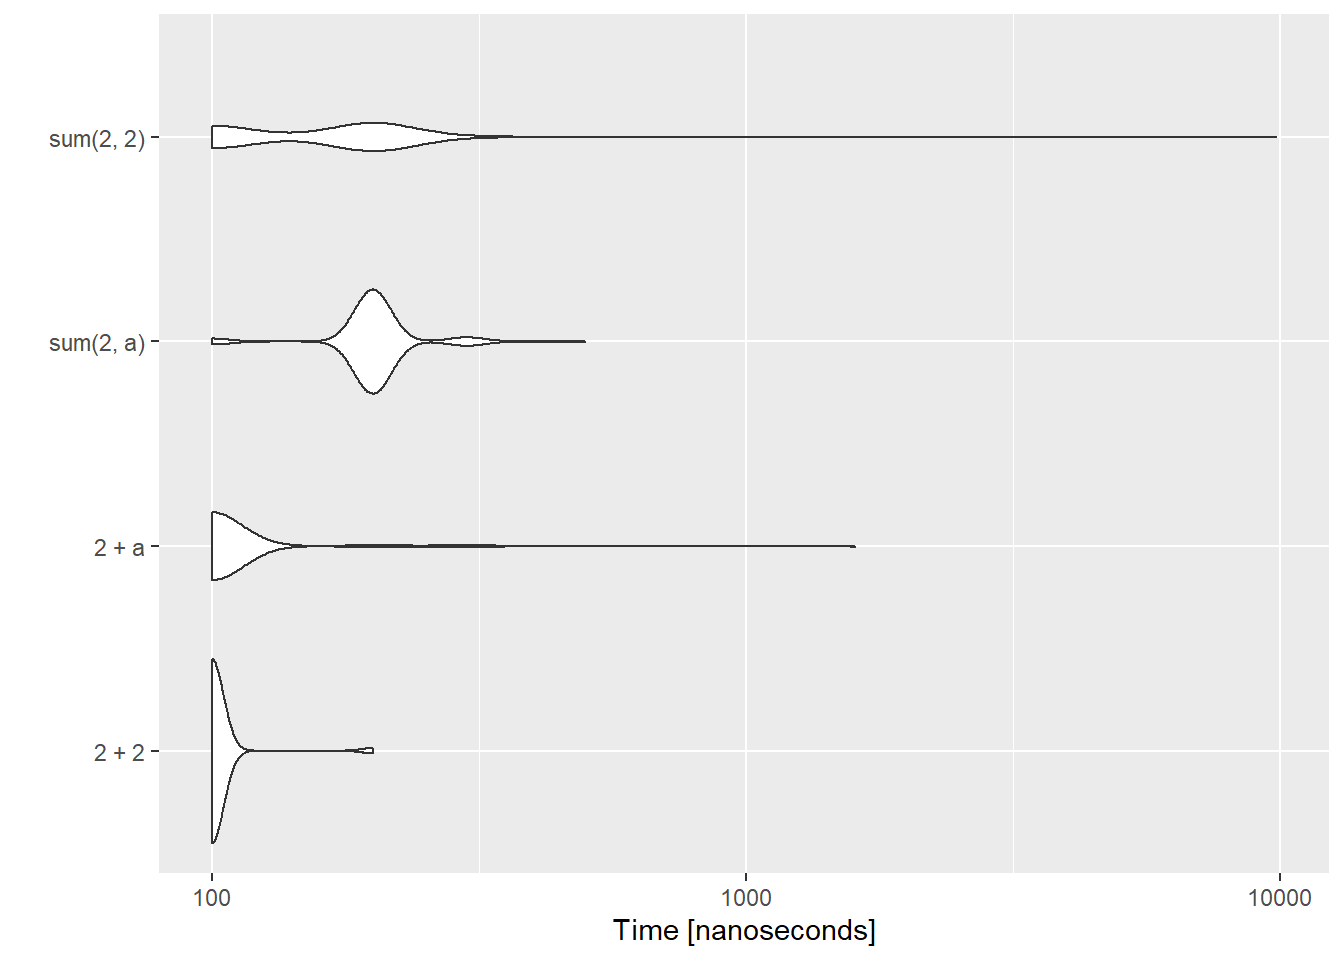
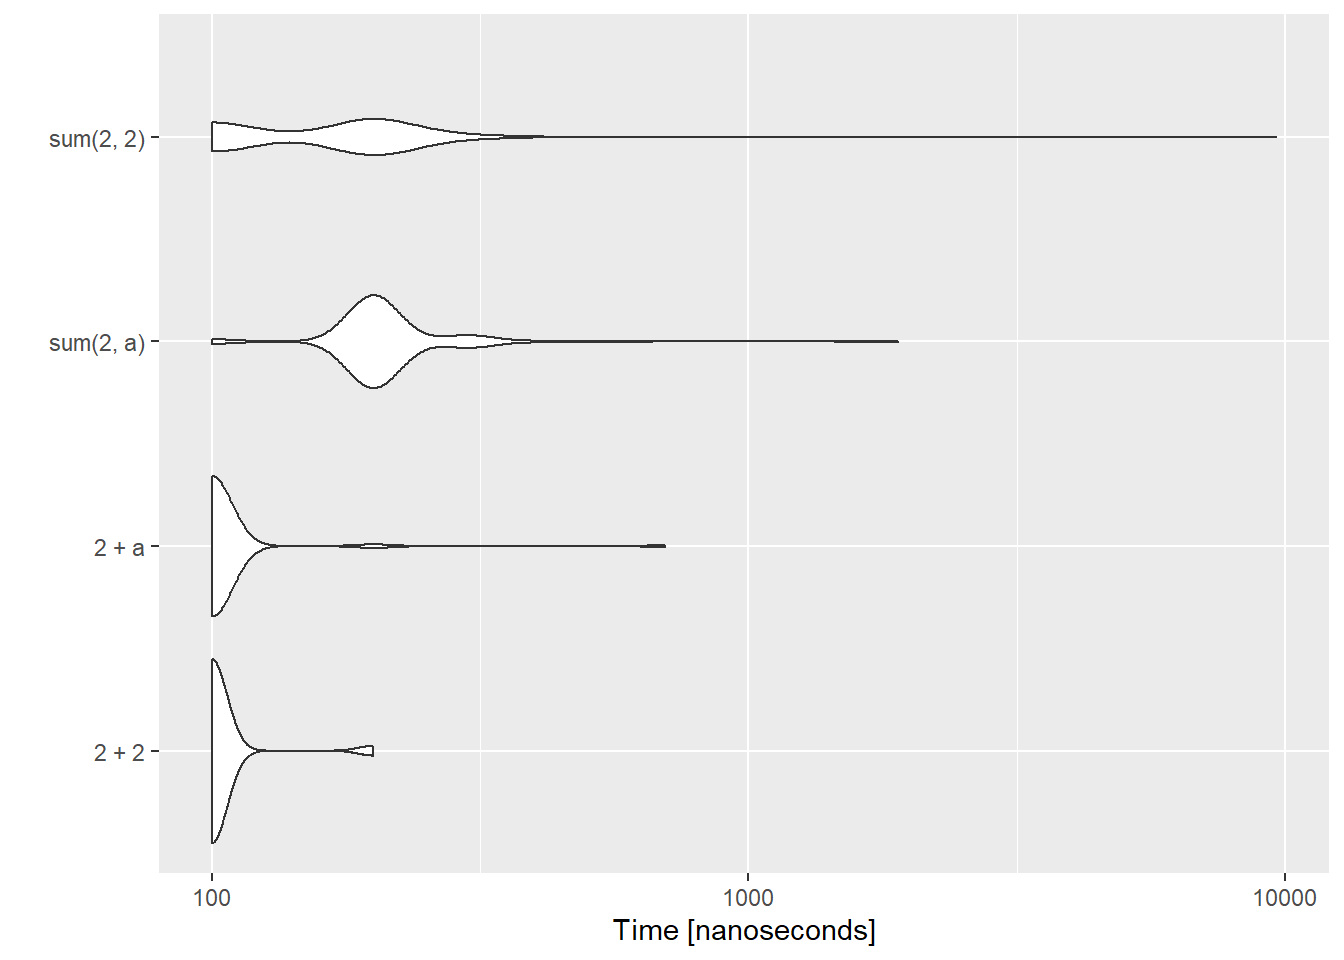
update

diff --git a/week7-more-git.html b/week7-more-git.html
@@ -586,9 +586,11 @@ Robust
 <li>How to use branches</li>
 <li>How to do a pull request to pull a branch into your master repository</li>
 <li>How to ‘go back in time’ and get rid of changes</li>
+<li>Working with issues in GitHub</li>
 <li>How to create a release in GitHub</li>
 <li>A workflow to minimize headaches</li>
 </ul>
+<p>I’ll be illustrating this with this repo: <a href="https://github.com/eeholmes/MyNewPackage" class="uri">https://github.com/eeholmes/MyNewPackage</a></p>
 <div id="merge-conflicts" class="section level2">
 <h2>Merge conflicts</h2>
 <p>Merge conflicts happen when there are changes to a file on your remote repository (GitHub or GitLab) but also changes to that same file on your local repository. Git doesn’t know how to resolve the conflicting changes and needs your help.</p>
@@ -661,6 +663,21 @@ Robust
 <p>You can do the same actions from GitHub.</p>
 </div>
 </div>
+<div id="issues" class="section level2">
+<h2>Issues</h2>
+<ul>
+<li>Use the Issues in GitHub to enter any issues (bugs, feature changes, notes).</li>
+<li>You can reference issues in your commits with #<num of the issue></li>
+<li>Add code to your issue so you can easily recreate the problem</li>
+</ul>
+</div>
+<div id="releases" class="section level2">
+<h2>Releases</h2>
+<ul>
+<li>The release or tag feature in GitHub will help you go back in time and document working states</li>
+<li>Use a NEWS file to keep a notebook of all your changes. I use a standard format with BUGS, DOCUMENTATION, ENHANCEMENTS. It’s really helpful for understanding what is happening with the code.</li>
+</ul>
+</div>
 <div id="getting-rid-of-changes-you-have-made" class="section level2">
 <h2>Getting rid of changes you have made</h2>
 <p>Say you made a change and you need to get rid of that. The temptation (for me) is to jump onto the Git command line and clobber my repository with <code>reset</code> and <code>revert</code> commands. Don’t do this. Here are some strategies that will make this let prone to leaving your code a mess.</p>
@@ -709,15 +726,6 @@ Robust
 <li>Work on one branch at a time</li>
 <li>Delete your branch when done</li>
 <li>Once you start using multiple branches, be careful to keep them separate. Modifications to <code>file_xyz</code> should only be in one branch.</li>
-</ul>
-</div>
-<div id="use-releases-and-tags" class="section level3">
-<h3>Use releases and tags</h3>
-<ul>
-<li>The release or tag feature in GitHub will help you go back in time and document working states</li>
-<li>Use a NEWS file to keep a notebook of all your changes. I use a standard format with BUGS, DOCUMENTATION, ENHANCEMENTS. It’s really helpful for understanding what is happening with the code.</li>
-<li>Use the Issues in GitHub to enter any issues (bugs, feature changes, notes).</li>
-<li>The Project feature can also be helpful on big projects and team projects.</li>
 </ul>
 </div>
 </div>

diff --git a/week4-packages.html b/week4-packages.html
@@ -826,12 +826,10 @@ Rprof(tmp&lt;-tempfile())
 for(i in 1:10000){ b=t(a)%*%a }
 Rprof()
 summaryRprof(tmp)$by.self</code></pre>
-<pre><code>##             self.time self.pct total.time total.pct
-## &quot;%*%&quot;            0.78    81.25       0.78     81.25
-## &quot;t&quot;              0.12    12.50       0.14     14.58
-## &quot;eval&quot;           0.02     2.08       0.96    100.00
-## &quot;Rprof&quot;          0.02     2.08       0.02      2.08
-## &quot;t.default&quot;      0.02     2.08       0.02      2.08</code></pre>
+<pre><code>##        self.time self.pct total.time total.pct
+## &quot;%*%&quot;       0.60    93.75       0.60     93.75
+## &quot;eval&quot;      0.02     3.12       0.64    100.00
+## &quot;t&quot;         0.02     3.12       0.02      3.12</code></pre>
 <pre class="r"><code>Rprof(NULL) #stop profiling</code></pre>
 <p><strong>microbenchmark</strong></p>
 <p>This is a handy package for comparing speeds of code.</p>
@@ -842,7 +840,7 @@ res &lt;- microbenchmark(2 + 2, 2 + a, sum(2, a), sum(2, 2))
 ggplot2::autoplot(res)</code></pre>
 <pre><code>## Coordinate system already present. Adding new coordinate system, which will replace the existing one.</code></pre>
 <pre><code>## Warning: Transformation introduced infinite values in continuous y-axis</code></pre>
-<pre><code>## Warning: Removed 81 rows containing non-finite values (stat_ydensity).</code></pre>
+<pre><code>## Warning: Removed 76 rows containing non-finite values (stat_ydensity).</code></pre>
 <p><img src="week4-packages_files/figure-html/unnamed-chunk-3-1.png" width="672" /></p>
 <p>This shows an example of code using <a href="https://www.datacamp.com/community/tutorials/pipe-r-tutorial">piping</a> (<code>%&gt;%</code>) versus without. This is why I do not use piping. It is slow and I do simulations and I want fast code. Piping also makes it a nightmare for your functions to pass the package checks required to submit to CRAN, important to me as I develop packages for CRAN.</p>
 <pre class="r"><code>library(magrittr)

diff --git a/week2-coding.html b/week2-coding.html
@@ -894,7 +894,7 @@ T==TRUE</code></pre>
 <pre class="r"><code>rnorm(100) %&gt;%
   matrix(ncol = 2) %&gt;%
   apply(2,mean)</code></pre>
-<pre><code>## [1]  0.282120941 -0.008790956</code></pre>
+<pre><code>## [1]  0.1400633 -0.1743661</code></pre>
 <ul>
 <li>Gravitate towards a standard coding style.</li>
 </ul>
